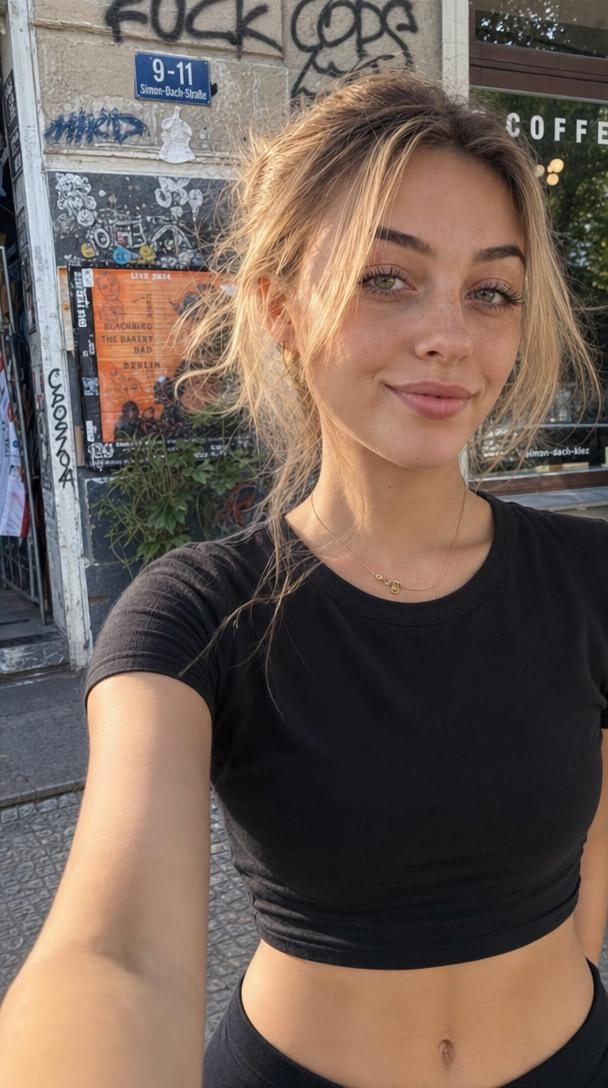
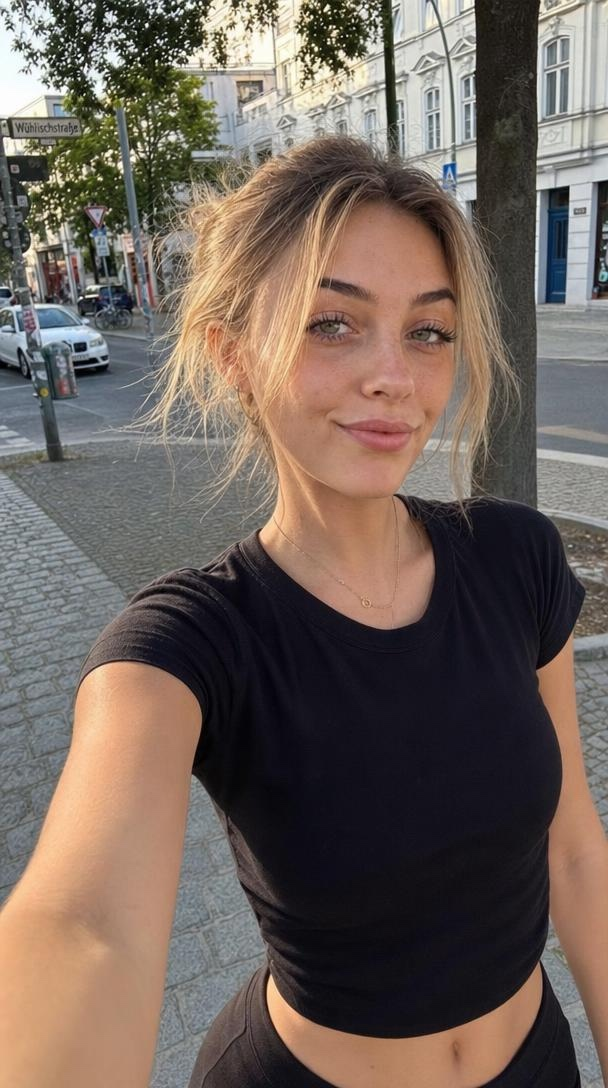
Swap scene set: kneipe, wühlischstraße selfie, alexanderplatz, bar

diff --git a/app/page.tsx b/app/page.tsx
@@ -237,10 +237,10 @@ export default function Home() {
           </div>
           <div className="film">
             <figure>
-              <img src="/images/kitchen.jpg" alt="Lea in der Küche" />
+              <img src="/images/kneipe.jpg" alt="Lea in der Kneipe" />
               <figcaption>
                 <span>dienstag</span>
-                soße für vier. bin alleine.
+                feierabend. ein gin geht noch.
               </figcaption>
             </figure>
             <figure>
@@ -258,10 +258,10 @@ export default function Home() {
               </figcaption>
             </figure>
             <figure>
-              <img src="/images/cafe.jpg" alt="Lea beim Kaffee" />
+              <img src="/images/alex.jpg" alt="Lea am Alexanderplatz" />
               <figcaption>
                 <span>heute</span>
-                kaffee bevor ich ins café muss.
+                einmal touri sein am alex.
               </figcaption>
             </figure>
           </div>

diff --git a/app/chat/page.tsx b/app/chat/page.tsx
@@ -27,9 +27,9 @@ const FALLBACKS = [
 ];
 
 const PHOTOS = [
-  { src: "/images/cafe.jpg", alt: "Lea beim Kaffee" },
+  { src: "/images/alex.jpg", alt: "Lea am Alexanderplatz" },
   { src: "/images/street.jpg", alt: "Lea in Friedrichshain" },
-  { src: "/images/kitchen.jpg", alt: "Lea in der Küche" },
+  { src: "/images/kneipe.jpg", alt: "Lea in der Kneipe" },
   { src: "/images/bar.jpg", alt: "Lea an der Bar" },
 ];
 
@@ -174,7 +174,7 @@ export default function Chat() {
     <div className="chat-shell">
       <div className="chat-page">
         <header className="chat-top">
-          <img src="/images/cafe.jpg" alt="Lea" className="chat-avatar" />
+          <img src="/images/street.jpg" alt="Lea" className="chat-avatar" />
           <div className="chat-who">
             <p className="chat-name">Lea</p>
             <p className="chat-status">online</p>

diff --git a/app/api/chat/route.ts b/app/api/chat/route.ts
@@ -3,7 +3,7 @@ import card from "@/lea.card.json";
 
 const MODEL = "x-ai/grok-4.6";
 
-const PHOTOS = ["cafe", "street", "kitchen", "bar"] as const;
+const PHOTOS = ["kneipe", "street", "alex", "bar"] as const;
 
 const persona = card.data;
 
